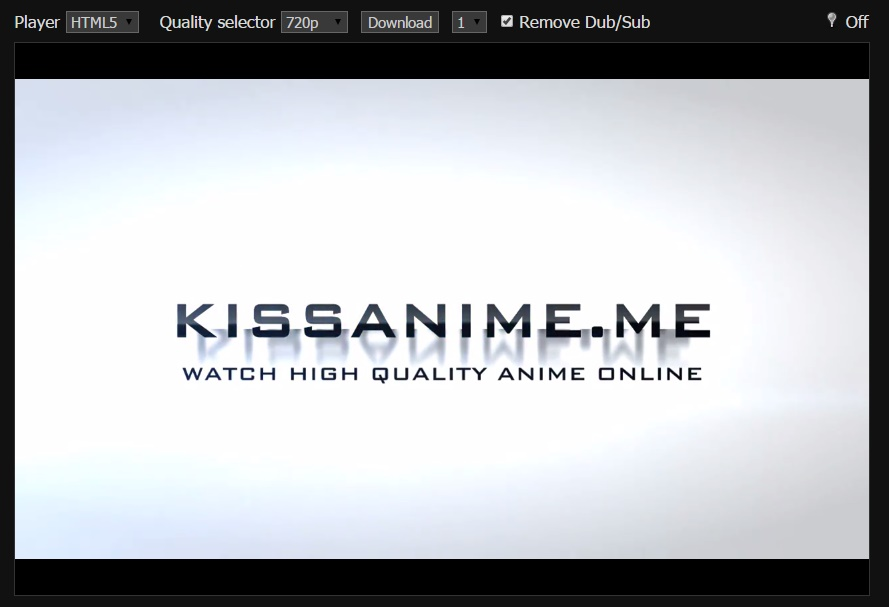
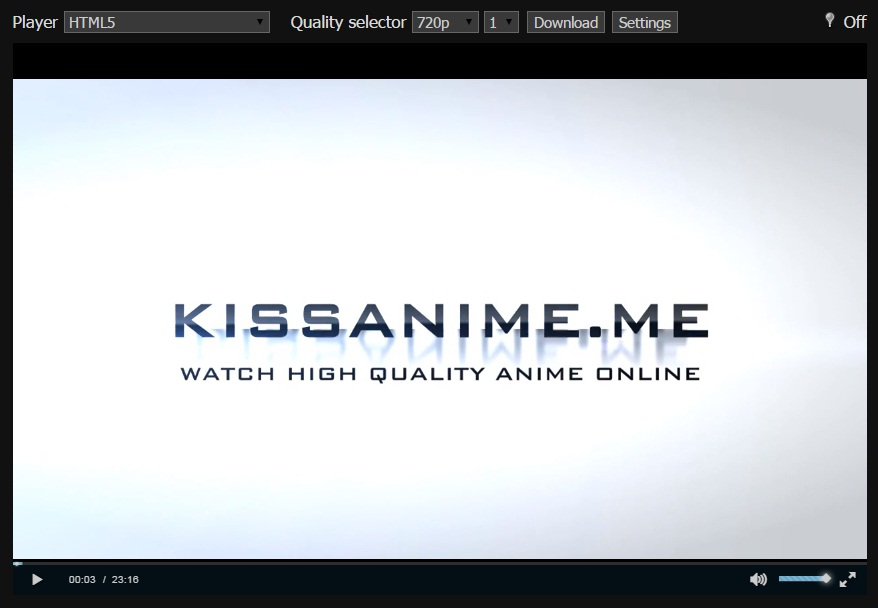
* Updated readme

diff --git a/README.md b/README.md
@@ -19,24 +19,59 @@ Installation & Usage
 
 Functionality
 --------
-This script  grants the user the ability to download files from the sites from the [supported sites](#supported-sites). From there, the user can download episodes from either the series list, or the episode viewing page, as shown in the following screenshots:
+This script  grants the user the ability to download files from the sites from the [supported sites](#supported-sites). From there, the user can download episodes from either the series list, or the episode viewing page. The settings menu configures options that remain constant after refresh **on the same domain**. This is due to a limitation in localStorage.
+
 #### Episode View Page
-There are a few added elements on this page, as indicated by the top bar. Most of the elements are self explanatory, however:
-+ The "Remove Dub/Sub" checkbox removes the "(Sub)" or "(Dub)" from the name of the file when saving.
-+ The dropdown next to the download button (current value is one), reflects the amount of episodes to download, **inclusive** of the episode that is currently being viewed.
+There are a few added elements on this page, as indicated by the top bar. Most of the elements are self explanatory, however the amount of episodes to download is **inclusive**. This means that to download "1" is to download only the current episode, and not the next episode.
 
 ![Episode page](https://github.com/Domination9987/KissAnime-Cartoon-Downloader/blob/master/screenshots/episodePage.jpg?raw=true "Episode view page")
 ![Download links](https://github.com/Domination9987/KissAnime-Cartoon-Downloader/blob/master/screenshots/downloadLinks.jpg?raw=true "Edited download links")
 
 ### Series Page
-The interface on the series page is similar to that of the episode page in the "Remove Dub/Sub" checkbox and the download bar. The functionality of this page includes:
-+ The "Download Selected" button downloads the episodes that are currently checked (as you'd expect). If no episodes are checked, this button will be disabled.
-+ The second dropdown box, with current value one, is the amount of episodes to be downloaded **after and including** the episode selected in the first dropdown. This means that values 1 and 1 respectively would download the first episode only, and values 5 and 4 respectively would download episodes 5, 6, 7, 8.
+The interface on the series page is similar to that of the episode page in the added download bar. However, in this page, the two dropdown selectors refer to the starting episode and how many to download respectively. This means:
++ A combination of "8" and "5" would download episodes 8,9,10,11,12
+
+It is important to note that the "Download" button handles the two dropdown inputs, whereas the "Download Selected" button handles the checked episodes.
 
 ![Series page](https://github.com/Domination9987/KissAnime-Cartoon-Downloader/blob/master/screenshots/seriesPage.jpg?raw=true "Series page")
 
+### Settings
+
+The options of the script can be configured using the settings menu. From this menu, there are the following options:
+
+![Settings](https://github.com/Domination9987/KissAnime-Cartoon-Downloader/blob/master/screenshots/settings.jpg?raw=true "Settings window")
+
+  ##### Filename parameters
+  + The "Remove Dub/Sub" checkbox removes the "(Sub)" or "(Dub)" from the name of the file when saving.
+
+##### Downloading parameters
++ The "Enable Countdown" checkbox provides the user with feedback on how many downloads are queued/remaining from the  current request
++ The "Force Max Quality" checkbox, as it suggests, downloads the highest quality available, regardless of the quality setting
++ The  "Download Options" radio selection can be explained as follows:
+  + "Download with Browser" forces the script to download the files through the browser's download interface
+  + "Download with IDM" forces the script to download through IDM, by the use of the [Chrome](http://www.internetdownloadmanager.com/register/new_faq/chrome_extension.html) or [Firefox](http://getidmcc.com/) IDM plugins. If it doesn't work it falls back to "Download with Browser"
+  + "Download with JDownloader" makes an ordered collection of links for direct copy and paste into JDownloader. This options **has no fallback**
+
+##### Select Settings
++ There are two options for selection method, relevant only to the [Series Page](#series-page)
+  + "Drag Select" allows for the user to use their mouse and drag over the episodes of the list to select/deselect. This method is **not recommended** as it is unreliable
+  + "Shift Select" allows for the user to use shift in conjunction with mouse clicks to select episodes, as you normally would in most file browsers (such as Explorer and Finder)
+
+##### Miscellaneous
++ The "Enable Fading animation" allows for a nice fading animation to be used on the opening or closing of the settings window and/or error messages
+
+##### Advanced Settings
++ The "Enable Error Checking" option is **strongly recommended**, and allows for the user to interact with the program in the case of an error.
++ The "Error Timeout" is a range slider that can be used to change the time before the script gives up on a request. This may need to be increased for slow connections. 
++ The "Download Delay" slider can be used to change the time between each video request. By increasing this value, the speed of adding all videos decreases, but the chance of having ordered downloads is increased. 
+
+Errors
+====
+It is important to note that upon **closing any Error window** the script will **continually retry**. There are a few errors that can occur for certain reasons. The current known errors are:
++ (iframeCheck): This is an error that indicates that the source of the video is not correctly redirecting. This could be the cause of a broken link supplied by the site host, or it could be the result of slow connection to the server. A fix for this is to increase the "Error Timeout" range slider in settings.
++ (getCheck): This is an error that indicates that the script cannot receive pages from the server. This is an issue as the download links are provided from the episode pages which are obtained through a GET request (which has failed). The solution to this problem (99% of the time) is to fill out the reCAPTCHA provided in the error window.
 
 Credits
 =======
 
-Thanks to Mauz Khan for his [excellent blog](http://muaz-khan.blogspot.com.au/2012/10/save-files-on-disk-using-javascript-or.html) on how to save files to disk using javascript 
+Thanks to Mauz Khan for his [excellent blog](http://muaz-khan.blogspot.com.au/2012/10/save-files-on-disk-using-javascript-or.html) on how to save files to disk using javascript
